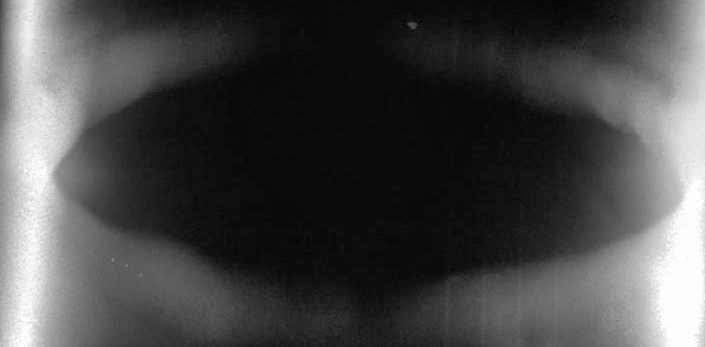
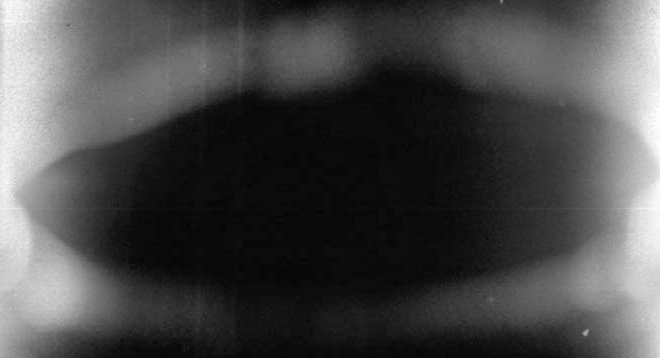
1

diff --git a/house/227/testTuoyuan.py b/house/227/testTuoyuan.py
@@ -208,11 +208,11 @@ def getProperRegion(img):
         if stats[i][4]<100  :
             labels[labels == i] = 0
         
-        # if stats[i][0] + stats[i][2]>y*thres1 and stats[i][0] + stats[i][2]<y*thres2 and \
-        #     stats[i][1] + stats[i][3]>x*thres1 and stats[i][1] + stats[i][3]<x*thres2 and \
-        #     stats[i][0] >y*thres1 and stats[i][0] <y*thres2 and \
-        #     stats[i][1] >x*thres1 and stats[i][1] <x*thres2 :
-        #     labels[labels == i] = 0
+        if stats[i][0] + stats[i][2]>y*thres1 and stats[i][0] + stats[i][2]<y*thres2 and \
+            stats[i][1] + stats[i][3]>x*thres1 and stats[i][1] + stats[i][3]<x*thres2 and \
+            stats[i][0] >y*thres1 and stats[i][0] <y*thres2 and \
+            stats[i][1] >x*thres1 and stats[i][1] <x*thres2 :
+            labels[labels == i] = 0
 
 
     labels[labels!=0] = 1
@@ -466,11 +466,11 @@ if __name__ == '__main__':
     # p1 = "D:\\getWeld\\pipeweld\\pipelineCode-576-weldingCode-1_0001.jpg"
     # p2 = "D:\\getWeld\\pipeweld\\pipelineCode-576-weldingCode-1_0002.jpg"
 
-    p1 = "D:\\getWeld\\pipeweld\\pipelineCode-50-P50216-2C2S1R-ST042-weldingCode-G1520_0005.jpg"
-    p2 = "D:\\getWeld\\pipeweld\\pipelineCode-50-P50205-3C1S1R-ST041-weldingCode-54G30_0005.jpg"
+    p2 = "D:\\getWeld\\pipeweld\\pipelineCode-50-P50216-2C2S1R-ST042-weldingCode-G1520_0005.jpg"
+    p1 = "D:\\getWeld\\pipeweld\\pipelineCode-50-P50205-3C1S1R-ST041-weldingCode-54G30_0005.jpg"
 
-    # p1 = "D:\\getWeld\\pipeweld\\pipelineCode-51X51-3-weldingCode-1_0001.jpg"
-    # p2 = "D:\\getWeld\\pipeweld\\pipelineCode-51X51-3-weldingCode-1_0004.jpg"
+    # p2 = "D:\\getWeld\\pipeweld\\pipelineCode-51X51-3-weldingCode-1_0001.jpg"
+    # p1 = "D:\\getWeld\\pipeweld\\pipelineCode-51X51-3-weldingCode-1_0004.jpg"
 
 
     # import cv2
